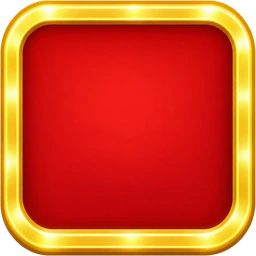
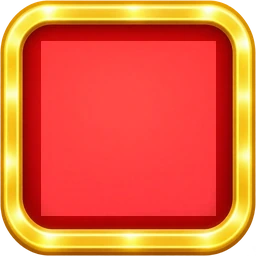
レトロ：クリア枠を明るく／レトロ・ネオン：星を発光
Claude-Session: https://claude.ai/code/session_01C8PtLCLrCZA399Ryqnq6qb

diff --git a/fit.js b/fit.js
@@ -204,7 +204,7 @@
   var st=document.createElement('style');
   st.textContent='body[data-vt=natural] .qg{gap:8px}'
    +'body[data-vt=natural] .qg button{aspect-ratio:1/1;border:0!important;border-radius:0!important;padding:0!important;gap:0!important;flex-direction:column;align-items:center;justify-content:center;color:#6b3f17!important;font-size:clamp(14px,4.6vw,19px)!important;font-weight:900;line-height:1.1;background:url('+b+'stg_frame.webp?v=2) center/100% 100% no-repeat!important;box-shadow:none}'
-   +'body[data-vt=natural] .qg button.ok{background-image:url('+b+'stg_frame_clear.webp?v=4)!important;color:#6b3f17!important}'
+   +'body[data-vt=natural] .qg button.ok{background-image:url('+b+'stg_frame_clear.webp?v=5)!important;color:#6b3f17!important}'
    +'body[data-vt=natural] .qg button.lk{opacity:.55;filter:grayscale(.6)}'
    +'body[data-vt=natural] .qg button.cur{box-shadow:0 0 0 3px #f0b429!important;border-radius:16px!important}'
    +'body[data-vt=natural] .qg button small{display:none;font-size:0;line-height:0;margin-top:1px}body[data-vt=natural] .qg button small:has(.gcs){display:block}'
@@ -218,7 +218,7 @@
   var st=document.createElement('style');
   st.textContent='body[data-vt=retro] .qg{gap:8px}'
    +'body[data-vt=retro] .qg button{aspect-ratio:1/1;border:0!important;border-radius:0!important;padding:0!important;gap:0!important;flex-direction:column;align-items:center;justify-content:center;color:#ffe7b0!important;text-shadow:0 1px 2px rgba(0,0,0,.7);font-size:clamp(14px,4.6vw,19px)!important;font-weight:900;line-height:1.1;background:url('+b+'stg_frame.webp?v=2) center/100% 100% no-repeat!important;box-shadow:none}'
-   +'body[data-vt=retro] .qg button.ok{background-image:url('+b+'stg_frame_clear.webp?v=4)!important;color:#fff!important}'
+   +'body[data-vt=retro] .qg button.ok{background-image:url('+b+'stg_frame_clear.webp?v=5)!important;color:#fff!important}'
    +'body[data-vt=retro] .qg button.lk{opacity:.55;filter:grayscale(.5)}'
    +'body[data-vt=retro] .qg button.cur{box-shadow:0 0 0 3px #fff3a0,0 0 10px #ffd36b!important;border-radius:16px!important}'
    +'body[data-vt=retro] .qg button small{display:none;font-size:0;line-height:0;margin-top:1px}body[data-vt=retro] .qg button small:has(.gcs){display:block}'
@@ -232,7 +232,7 @@
   var st=document.createElement('style');
   st.textContent='body[data-vt=neon] .qg{gap:8px}'
    +'body[data-vt=neon] .qg button{aspect-ratio:1/1;border:0!important;border-radius:0!important;padding:0!important;gap:0!important;flex-direction:column;align-items:center;justify-content:center;color:#bff8ff!important;text-shadow:0 0 6px #19e6ff;font-size:clamp(14px,4.6vw,19px)!important;font-weight:900;line-height:1.1;background:url('+b+'stg_frame.webp?v=2) center/100% 100% no-repeat!important;box-shadow:none}'
-   +'body[data-vt=neon] .qg button.ok{background-image:url('+b+'stg_frame_clear.webp?v=4)!important;color:#fff!important}'
+   +'body[data-vt=neon] .qg button.ok{background-image:url('+b+'stg_frame_clear.webp?v=5)!important;color:#fff!important}'
    +'body[data-vt=neon] .qg button.lk{opacity:.55;filter:grayscale(.5)}'
    +'body[data-vt=neon] .qg button.cur{box-shadow:0 0 0 3px #fff,0 0 12px #19e6ff!important;border-radius:16px!important}'
    +'body[data-vt=neon] .qg button small{display:none;font-size:0;line-height:0;margin-top:1px}body[data-vt=neon] .qg button small:has(.gcs){display:block}'
@@ -248,7 +248,7 @@
          neon:{c:'#bff8ff',ok:'#fff',sh:'0 0 6px #19e6ff',cur:'0 0 0 3px #fff,0 0 12px #19e6ff',su:'x'}};
   var css='';
   Object.keys(S).forEach(function(k){
-    var s=S[k],p='body[data-vt='+k+'] #mStage .stb',f=r+k+'/stg_frame.webp?v=2',fc=r+k+'/stg_frame_clear.webp?v=4';
+    var s=S[k],p='body[data-vt='+k+'] #mStage .stb',f=r+k+'/stg_frame.webp?v=2',fc=r+k+'/stg_frame_clear.webp?v=5';
     css+=p+'{aspect-ratio:1/1;border:0!important;border-radius:0!important;box-shadow:none;padding:6% 5%!important;gap:1px!important;justify-content:center;opacity:1;overflow:visible;isolation:auto;color:'+s.c+'!important;text-shadow:'+s.sh+';background:url('+f+') center/100% 100% no-repeat!important}'
      +p+':has(.sr i.on){background-image:url('+fc+')!important;color:'+s.ok+'!important}'
      +p+'.lock,'+p+'.lk{opacity:.55;filter:grayscale(.5)}'
@@ -267,3 +267,6 @@
 })();
 
 (function(){var st=document.createElement('style');st.textContent='body[data-vt=natural] .gcs.on,body:not([data-vt]) .gcs.on,body[data-vt=natural] #mStage .stb .sr i.on{filter:saturate(1.1) brightness(1.05) drop-shadow(0 0 1px #c25e00) drop-shadow(0 0 3px #ffb300) drop-shadow(0 0 7px rgba(255,170,0,.95))}';document.head.appendChild(st);})();
+
+(function(){var st=document.createElement('style');st.textContent='body[data-vt=retro] .gcs.on,body[data-vt=retro] #mStage .stb .sr i.on{filter:brightness(1.1) saturate(1.2) drop-shadow(0 0 2px #fff0a0) drop-shadow(0 0 4px #ffb300) drop-shadow(0 0 6px rgba(255,200,0,.95))}body[data-vt=neon] .gcs.on,body[data-vt=neon] #mStage .stb .sr i.on{filter:brightness(1.35) saturate(1.3) drop-shadow(0 0 2px #fff176) drop-shadow(0 0 4px #ffeb3b) drop-shadow(0 0 6px rgba(255,235,59,.95)) drop-shadow(0 0 10px rgba(25,230,255,.6))}';document.head.appendChild(st);})();
+(function(){var st=document.createElement('style');st.textContent='.qg button small:has(.gcs){opacity:1!important}';document.head.appendChild(st);})();

diff --git a/sw.js b/sw.js
@@ -1,5 +1,5 @@
 // オフライン対応（ページは最新を優先、画像などはキャッシュを優先）
-const V='gc-v314';
+const V='gc-v317';
 const CORE=['./','index.html','coins.js','backup.js','manifest.webmanifest','icons/icon-192.png',
  ...['reversi','shogi','wanko','gomoku','memory','escape','rings','peg','slide','hanoi'].map(g=>g+'/')];
 self.addEventListener('install',e=>{e.waitUntil(caches.open(V).then(c=>c.addAll(CORE)).then(()=>self.skipWaiting()))});
